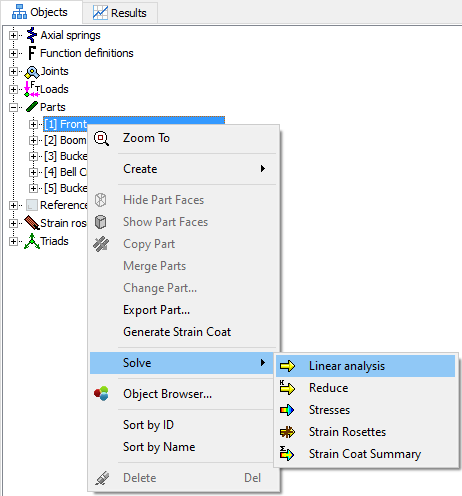
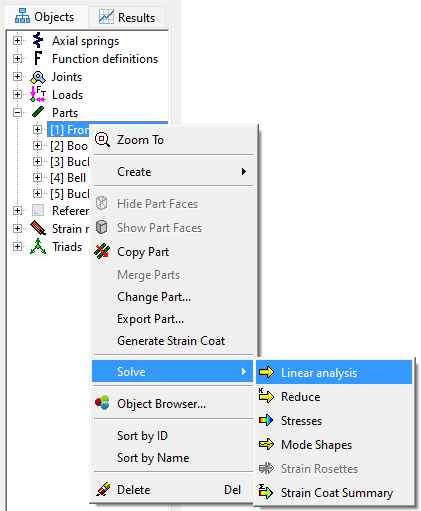
GUI issue #147: Part-wise mode shape recovery

Changed region(s): [[0.0, 0.0, 1.0, 1.0], [0.4323, 0.0302, 1.0, 0.0605]]

diff --git a/src/UsersGuide/mechanism_analysis.tex b/src/UsersGuide/mechanism_analysis.tex
@@ -49,7 +49,7 @@ Sections in this chapter address the following topics:
                     {Strain coat analysis}
 \item
   \protect\hyperlink{direct-linear-analysis-of-fe-parts}
-                    {Direct linear analysis of FE Parts}
+                    {Direct linear analysis of FE parts}
 \item
   \protect\hyperlink{interaction-during-processing}
                     {Interaction during processing}
@@ -86,7 +86,7 @@ parts and other mechanism elements.
 
 Fedem uses a Component Mode Synthesis (CMS) model reduction method that replaces
 the internal nodal DOFs with a set of static and component modes.
-The model reduction process for each part generates superelement mass- and
+The model reduction process for each FE part generates superelement mass- and
 stiffness matrices, which are then assembled into the system mass and stiffness
 matrices in the dynamics simulation.
 See the \FedemTGuide{Chapter 3, "Model Reduction"}
@@ -204,24 +204,24 @@ To specify the parameters for modal analysis, see
 \SubSection{Stress recovery}{stress-recovery-1}
 
 After performing the dynamics analysis,
-a stress analysis can be conducted on the mechanism.
+a stress recovery can be conducted on the mechanism.
 The stresses, strains and elastic displacements can then be calculated at
 different time steps and/or mechanism positions of the dynamics analysis.
 See the \FedemTGuide{Section 9.4, "Finite element stress analysis"}
-for more information about the stress analysis.
+for more information about the stress recovery calculations.
 See \refSection{stress-recovery-analysis}{Stress recovery analysis}
-to setup and perform the stress analysis.
+to setup and perform the stress recovery.
 
 \clearpage
 
 
 \subsection{Mode shape recovery}
 
-A mode shape recovery analysis enables you to expand the system mode shapes
+A mode shape recovery enables you to expand the system mode shapes
 calculated during the dynamics simulation.
 These mode shapes can later be animated.
 See \refSection{mode-shape-recovery-analysis}{Mode shape recovery analysis}
-to setup and perform the mode shape analysis.
+to setup and perform the mode shape recovery.
 
 
 \subsection{Strain rosette recovery}
@@ -230,30 +230,30 @@ Fedem enables you to recover strains and stresses from virtual strain gages
 which are defined in a separate file.
 The results are similar to those from real strain gages.
 See the \FedemTGuide{Section 9.5, "Virtual strain gauges"}
-for more information about the strain rosette analysis.
+for more information about the strain rosette recovery calculations.
 See \refSection{strain-rosette-analysis-1}{Strain rosette analysis}
-to setup and perform the strain rosette analysis.
+to setup and perform the strain rosette recovery.
 
 
 \subsection{Strain coat recovery}
 
 The strain coat recovery process calculates the stresses and strains
 on the strain coat elements in the model,
-in a similar manner as in the strain rosette analysis.
+in a similar manner as in the strain rosette recovery.
 This is primarily used as input for subsequent fatigue calculations.
 See \refSection{strain-coat-analysis-1}{Strain coat analysis}
-to setup and perform the strain coat analysis.
+to setup and perform the strain coat recovery.
 
 
 \subsection{Linear analysis}
 
 Instead of doing a full dynamics simulation with subsequent recovery,
 it is also possible to perform a direct linear FE analysis on individual parts.
-This is handy if you only want to asses the static properties of a part before
-using it in a larger mechanism simulation.
+This is handy if you only want to asses the static properties of an FE part
+before using it in a larger mechanism simulation.
 The loads and boundary conditions then need to be defined in the FE model file.
 See \refSection{direct-linear-analysis-of-fe-parts}
-{Direct linear analysis of FE Parts} to perform such linear analyses.
+{Direct linear analysis of FE parts} to perform such linear analyses.
 
 
 %%%%%%%%%%%%%%%%%%%%%%%%%%%%%%%%%%%%%%%%%%%%%%%%%%%%%%%%%%%%%%%%%%%%%%%%%%%%%%%%
@@ -425,7 +425,7 @@ from the respective setup dialog boxes or the various Property Editor panels.
     You can set the maximum number of concurrent processes that will be run
     during a simulation task. This is useful if you have a multi-processor
     machine and want to run several part reductions or recovery processes
-    parallel.
+    in parallel.
   \item
     You can fine-tune the memory usage of the FE model Reducer through
     these options. See
@@ -465,9 +465,9 @@ from the respective setup dialog boxes or the various Property Editor panels.
   may already have been provided to the corresponding solver
   through their respective setup dialog boxes. Specifying any such option also
   in the Additional Solver Options dialog box will then override the setting in
-  the solver-specific dialog box and should therefore be avoided.}
-  %Consult Fedem technical support if you are in doubt
-  %on the usage of a particular command-line option.}
+  the solver-specific dialog box and should therefore be avoided.
+  Consult the OpenFEDEM team if you are in doubt
+  on the usage of a particular command-line option.}
 
 \Note{If you mis-spell a command-line option in the Additional Solver Options
   dialog box, or specify options that do not exist, the solver process will run
@@ -578,10 +578,10 @@ non-existing directory, they are placed in the directory
 
 \SubSection{Part- and group-wise solving}{part-and-group-wise-solving}
 
-Fedem has the capability of running some of its solvers on individual
-parts of the mechanism (FE Parts and element groups). This is beneficial
-when dealing with big models where the solver execution may be both
-time- and disc space consuming.
+Fedem has the capability of running its solvers also on individual parts of the
+mechanism (FE parts and element groups).
+This is beneficial when dealing with big models containing a large number of
+FE parts, where the solver execution may be both time- and disc-space consuming.
 
 \Note{These solver tasks act upon each part independently, and do not affect
   the global response in any way. The user is encouraged to identify critical
@@ -594,14 +594,16 @@ time- and disc space consuming.
 \noindent
 \begin{minipage}{0.45\textwidth}
   \raggedright
-  Solver processes that may be run on parts individually are: Linear Analysis,
-  Reducer, Stress recovery, Strain Rosette recovery and Strain Coat recovery.
-  A part-wise solve process is started by right-clicking on a Part in the
+  All the solver processes listed in
+  \refSection{overview-of-fedem-analyses}{Overview of Fedem analyses}
+  may be run on FE parts, except for the Dynamics analysis which only operates
+  on the global mechanism assembly.
+  A part-wise solve process is started by right-clicking on an FE part in the
   {\sl Objects} list of the Model Manager panel, choosing \textbf{Solve},
   and then the wanted process (see illustration to the right).
-  You may also multi-select parts in the {\sl Objects} list to solve for two or
-  more parts simultaneously. As always, when trying to run the Reducer,
-  a part will only be reduced if necessary.
+  You may also multi-select Parts in the {\sl Objects} list to solve for two or
+  more FE parts simultaneously. As always, when trying to run the Reducer,
+  an FE part will only be reduced if necessary.
 \end{minipage}%
 \hfill\begin{minipage}{0.5\textwidth}
   \includegraphics[width=\textwidth]{Figures/6-LinkwiseSolve}
@@ -679,7 +681,7 @@ simultaneously running reduction or recovery processes.
 
 The FE model reduction process requires no user setup apart from the settings
 found in the \protect\hyperlink{reduction-options-tab}
-{\sl Reduction Options tab} of the Property Editor panel for each part
+{\sl Reduction Options tab} of the Property Editor panel for each Part
 (see \refSection{part-properties}{Part properties}).
 Some of these options are discussed in further detail in the sub-sections below.
 
@@ -857,8 +859,8 @@ for bad elements if you get warnings on negative pivots.
 \SubSection{Eigenvalue analysis of the reduced parts}
            {eigenvalue-analysis-of-the-reduced-parts}
 
-To assess the dynamic properties of the reduced FE part matrices,
-you can perform an eigenvalue analysis of the reduced system, i.e.
+To assess the dynamic properties of the resulting superelement matrices,
+you can perform an eigenvalue analysis of the reduced system, i.e.,
 $$\left({\bf K} - \omega^2{\bf M}\right)\mbox{\boldmath$\phi$} = {\bf 0}$$
 where \textbf{K} and \textbf{M} denote the reduced stiffness and mass matrices.
 Since the reduced system does not include any constrained DOFs\footnote{
@@ -1314,12 +1316,12 @@ following parameters:
   A tensile membrane/axial force will effectively increase the
   bending/rotational stiffness and a compressive force will reduce the
   bending/rational stiffness. For information on the computation of the
-  geometric stiffness on parts, see the
+  geometric stiffness on FE parts, see the
   \FedemTGuide{Section 4.4, "Superelement tangent stiffness".}
 
   The centripetal moment correction option enables an improved representation of
-  the inertia forces on parts with only a few Triads that experience high-speed
-  rotations (see the
+  the inertia forces on FE parts with only a few Triads that experience
+  high-speed rotations (see the
   \FedemTGuide{Section 3.3, "Inertia forces and high-speed rotation"}
   for details).
 \end{bulletlist}
@@ -1581,8 +1583,8 @@ This file may then be opened in the Ceetron GLview software for further viewing
 
 Only curves plotting results produced by the Dynamics Solver can be exported
 in this manner. If you need to include curves with results from other Fedem
-simulations in the same output file (e.g., results from subsequent strain
-rosette analyses), you have to run the Fedem Curve Export Utility module instead
+simulations in the same output file (e.g., results from subsequent Strain
+Rosette analyses), you have to run the Fedem Curve Export Utility module instead
 (see \refSection{automated-curve-export-from-multiple-result-database-files}
                 {Automated curve export from multiple result database files}).
 
@@ -1897,7 +1899,7 @@ It is possible to perform recovery of internal displacements and stresses
 (von Mises stress only) for FE parts during the dynamics simulation itself,
 instead of doing it as separate processes after the dynamics simulation process
 is finished as described in \refSection{stress-recovery-1}{Stress recovery}.
-Similarly, strain rosette recovery can also be performed
+Similarly, the strain rosette recovery can also be performed
 during the dynamics simulation. This has the great advantage that you
 can monitor these results while the dynamics simulation is still running.
 
@@ -1910,12 +1912,12 @@ To activate recovery during simulation, use the appropriate toggles in the
 \protect\hyperlink{advanced-tab}{\sl Advanced tab} of the Property Editor panel
 for the Part in question (shown at right, see also
 \refSection{part-properties}{Part properties}). You may enable one
-or both of these toggles to activate such recovery during for an FE Part,
+or both of these toggles to activate such recovery during for an FE part,
 and can also enable them for several parts in a multi-part model.
 
 Enabling strain rosette recovery during dynamics simulation will, of course,
-have no effect unless strain rosette objects have been defined on that FE part.
-If any of the strain rosette objects on the selected FE part are used as
+have no effect unless Strain Rosette objects have been defined on that FE part.
+If any of the Strain Rosette objects on the selected FE part are used as
 Argument in a Function (see \refSection{functions}{Functions}), this toggle
 will be automatically enabled for that part when the Dynamics Solver is started.
 
@@ -2091,7 +2093,7 @@ double precision (64-bit real) by using the {\tt-double} solver option.
   simulation, you can start the stress recovery by clicking the
   \textbf{Recover Stress} button on the \textbf{Solvers} tool bar (or from the
   \textbf{Solve} menu). You may also run the stress recovery on a selection
-  of parts or on individual element groups, see
+  of FE parts or on individual element groups, see
   \refSection{part-and-group-wise-solving}{Part- and group-wise solving}.}
 
 \Note{If element calculations fail during stress recovery analysis,
@@ -2133,7 +2135,7 @@ perform the dynamics analysis and then the mode shape recovery analysis.
     Inserts selected mode shape for the selected time into the results list.
 
   \item{\sl Mode shapes to recover:} --
-    List of selected mode shapes to expand during postprocessing
+    List of selected mode shapes to expand during post-processing
     (sorted by mode number).
 
   \item\textbf{Delete} button --
@@ -2176,11 +2178,13 @@ perform the dynamics analysis and then the mode shape recovery analysis.
 
 \IconTextFirst{modes}{
   Once you have set up the mode shape recovery options and performed the
-  dynamics simulation, you can post process the modes at the selected times
+  dynamics simulation, you can post-process the modes at the selected times
   by clicking the \textbf{Recover Mode Shapes} button on the \textbf{Solvers}
-  tool bar (or from the \textbf{Solve} menu).}
+  tool bar (or from the \textbf{Solve} menu).
+  You may also run the mode shape recovery on a selection of parts, see
+  \refSection{part-and-group-wise-solving}{Part- and group-wise solving}.}
 
-When Fedem has postprocessed all the selected modes, you can animate the
+When Fedem has post-processed all the selected modes, you can animate the
 mode shapes (see \refSection{animations}{Animations} for more information).
 
 
@@ -2252,7 +2256,11 @@ principal stresses/strains, and angle of max/min. principals.
   Once you have set up the strain rosette recovery options and performed the
   dynamics simulation, you can start the strain rosette recovery by clicking the
   \textbf{Recover Strain Rosettes} button on the \textbf{Solvers} tool bar
-  (or from the \textbf{Solve} menu).}
+  (or from the \textbf{Solve} menu).
+  You may also run the strain rosette recovery on a selection of parts,
+  see \refSection{part-and-group-wise-solving}{Part- and group-wise solving}.
+  This command will ignore parts which do not have any Strain Rosette objects
+  defined on them.}
 
 
 \SubSection{Result output}{result-output}
@@ -2268,8 +2276,8 @@ nodal deformations in the strain rosettes to the \File{.frs} file, by specifying
 (see \refSection{additional-solver-options}{Additional solver options}).
 
 If enabled, a file named \File{rosette{\sl ID}\_gage{\sl n}.dac} is written
-for each strain gage, containing the strain of leg {\sl n} in strain rosette
-{\sl ID}. This file is output in the nCode DAC format.
+for each strain gage, containing the strain of leg {\sl n} in Strain Rosette
+object {\sl ID}. This file is output in the nCode DAC format.
 
 It is also possible to output the strain rosette result directly to ASCII files.
 By specifying {\tt-writeAsciiFiles} as an additional option to the
@@ -2423,15 +2431,15 @@ the result file hierarchy
 
 \SubSection{Generating strain coat}{generating-strain-coat}
 
-\begin{wrapfigure}[17]{r}{0.35\textwidth} \vskip-5mm
+\begin{wrapfigure}[20]{r}{0.35\textwidth} \vskip-6mm
   \includegraphics[width=0.35\textwidth]{Figures/6-GenerateStraincoat}
 \end{wrapfigure}
 
-Before you run the strain coat analysis, \newline you must generate
-strain coat elements for \newline the parts or element groups in question.
-This is done by right-clicking the
-parts or groups in the {\sl Objects} list of the Model Manager panel
-and selecting \textbf{Generate Strain Coat} from the menu.
+Before you run the strain coat analysis, you \newline must generate
+strain coat elements for the parts \newline or element groups in question.
+This is done by \newline right-clicking the parts or groups in the
+{\sl Objects} \newline list of the Model Manager panel and selecting \newline
+\textbf{Generate Strain Coat} from the menu. \newline
 Again, multi-selection is possible.
 
 One strain coat element is created for \newline each non-interior face of the
@@ -2444,7 +2452,7 @@ the same selection has no effect.
 When creating strain coat elements by selecting an element group the new
 strain coat elements are automatically added to that group.
 
-If a part is selected, the created strain coat elements are only added to the
+If a Part is selected, the created strain coat elements are only added to the
 implicit element groups which the parent finite element belongs to, not to any
 explicit element groups that the parent element might be a member of.
 Refer to \refSection{element-groups}{Element groups}
@@ -2524,7 +2532,7 @@ see \refSection{element-group-properties}{Element group properties}.
   the dynamics simulation, you can start the strain coat recovery by clicking
   the \textbf{Recover Strain Coat Summary} button on the \textbf{Solvers}
   tool bar (or from the \textbf{Solve} menu).
-  The Strain Coat Recovery is then performed on each part in the model
+  The Strain Coat Recovery is then performed on each FE part in the model
   containing strain coat elements.
   Parts without strain coat elements are automatically omitted.}
 
@@ -2543,7 +2551,7 @@ It is therefore no need to do this manually, as explained in
 
 
 %%%%%%%%%%%%%%%%%%%%%%%%%%%%%%%%%%%%%%%%%%%%%%%%%%%%%%%%%%%%%%%%%%%%%%%%%%%%%%%%
-\Section{Direct linear analysis of FE Parts}{direct-linear-analysis-of-fe-parts}
+\Section{Direct linear analysis of FE parts}{direct-linear-analysis-of-fe-parts}
 
 Instead of doing a full dynamic simulation with subsequent stress recovery,
 it is also possible to perform a direct linear FE analysis on individual parts.
@@ -2570,19 +2578,21 @@ A direct linear analysis can only be started as a Part-wise solve process, see
 \refSection{part-and-group-wise-solving}{Part- and group-wise solving}, since
 no coupling will exist between multiple parts in the model during the analysis.
 
-\begin{wrapfigure}[16]{r}{0.5\textwidth}
+\begin{wrapfigure}[18]{r}{0.5\textwidth}
   \includegraphics[width=0.5\textwidth]{Figures/6-SolveLinearAnalysis}
 \end{wrapfigure}
 
-Start the process by right-clicking on the part (or parts) in the {\sl Objects}
-list of the Model Manager panel, and choose \textbf{Solve} and then
-\textbf{Linear Analysis} from the menu (as shown to the right).
+Start the process by right-clicking on the FE part (or parts) in the \newline
+{\sl Objects} list of the Model Manager \newline panel,
+and choose \textbf{Solve} and then \newline \textbf{Linear Analysis}
+from the menu \newline (as shown to the right).
 
-The results of a linear analysis is only the displacement field, which then can
-be viewed in an Animation object. However, it is possible to also perform
-a Part-wise stress recovery on the same part afterwards, to compute stresses
-based on the computed displacement field. This stress recovery will perform the
-same simulation as the normal stress recovery process described in
+The results of a linear analysis is only the displacement field,
+which then can be viewed in an Animation object.
+However, it is possible to perform a part-wise stress recovery on the same part
+afterwards, to compute the stresses based on the computed displacement field.
+This stress recovery will perform the same simulation as the normal
+stress recovery process described in
 \refSection{stress-recovery-analysis}{Stress recovery analysis},
 except that the recovered displacements are read from a file instead of being
 computed from the system response of the dynamics simulation.
@@ -2697,7 +2707,7 @@ for the subsequent post-processing operations.
 
 If you need to export curve data from several result database files into
 a single output file (e.g., if you want curves from one or more Strain Rosette
-analyses exported to a single RPC-file or a multi-columns ASCII file),
+Recovery analyses exported to a single RPC-file or a multi-columns ASCII file),
 that can be done by executing the Fedem Curve Export Utility module after the
 necessary solver tasks have been completed.
 
@@ -3027,7 +3037,7 @@ directories named \File{event\_\#\#\#} and under each of them the normal
 response directories \File{response\_\#\#\#\#}, as described in
 \refSection{response-directory-structure}{Response directory structure}.
 
-It is possible to postprocess the simulation results (graph plotting and
+It is possible to post-process the simulation results (graph plotting and
 animation) for the active event only. Therefore, it is not possible to,
 for instance, define a graph where a result quantity from two different
 simulation events are compared. To do that, you will have to export the curves

diff --git a/src/UsersGuide/postprocessing_results.tex b/src/UsersGuide/postprocessing_results.tex
@@ -12,8 +12,8 @@
 
 \Chapter{Postprocessing Results}{postprocessing-results}
 
-This chapter introduces the options for postprocessing the results calculated by
-the various Fedem solvers.
+This chapter introduces the options for post-processing the results
+calculated by the various Fedem solvers.
 You will learn how to set up graphs, curves and animations.
 
 Sections in this chapter address the following topics:
@@ -45,9 +45,9 @@ Sections in this chapter address the following topics:
 %%%%%%%%%%%%%%%%%%%%%%%%%%%%%%%%%%%%%%%%%%%%%%%%%%%%%%%%%%%%%%%%%%%%%%%%%%%%%%%%
 \Section{Postprocessing environment}{postprocessing-environment}
 
-In Fedem, postprocessing means evaluating the data collected from the mechanism
+In Fedem, post-processing means evaluating the data collected from the mechanism
 analysis (see \refChapter{mechanism-analysis}{Mechanism Analysis}).
-The options for postprocessing are graphing and animating.
+The options for post-processing are graphing and animating.
 You can perform these tasks using the {\sl Results} list of the Model Manager
 panel and the commands available in the \textbf{Result} menu.
 Results are displayed in the Workspace area.
